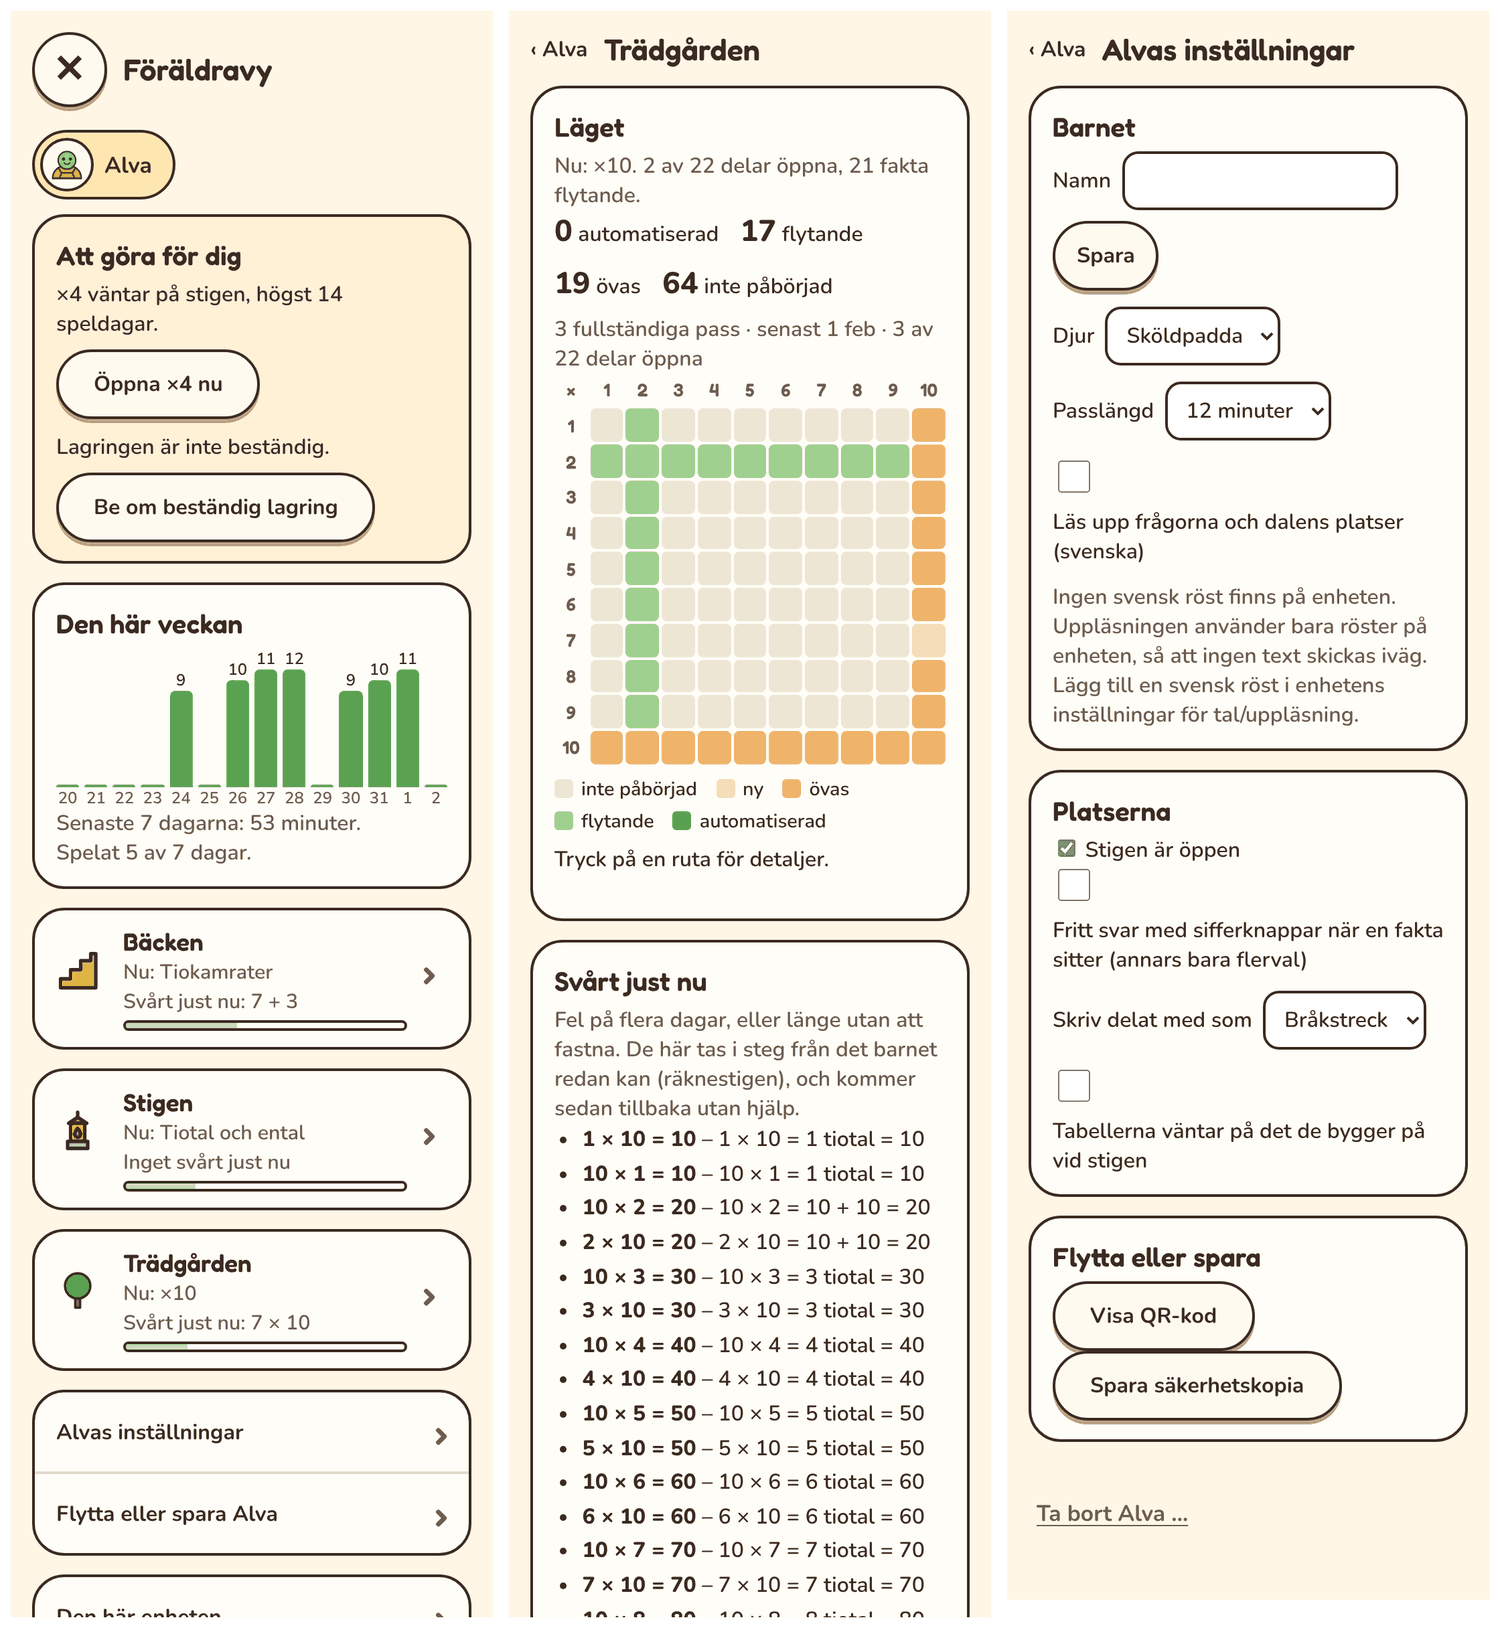
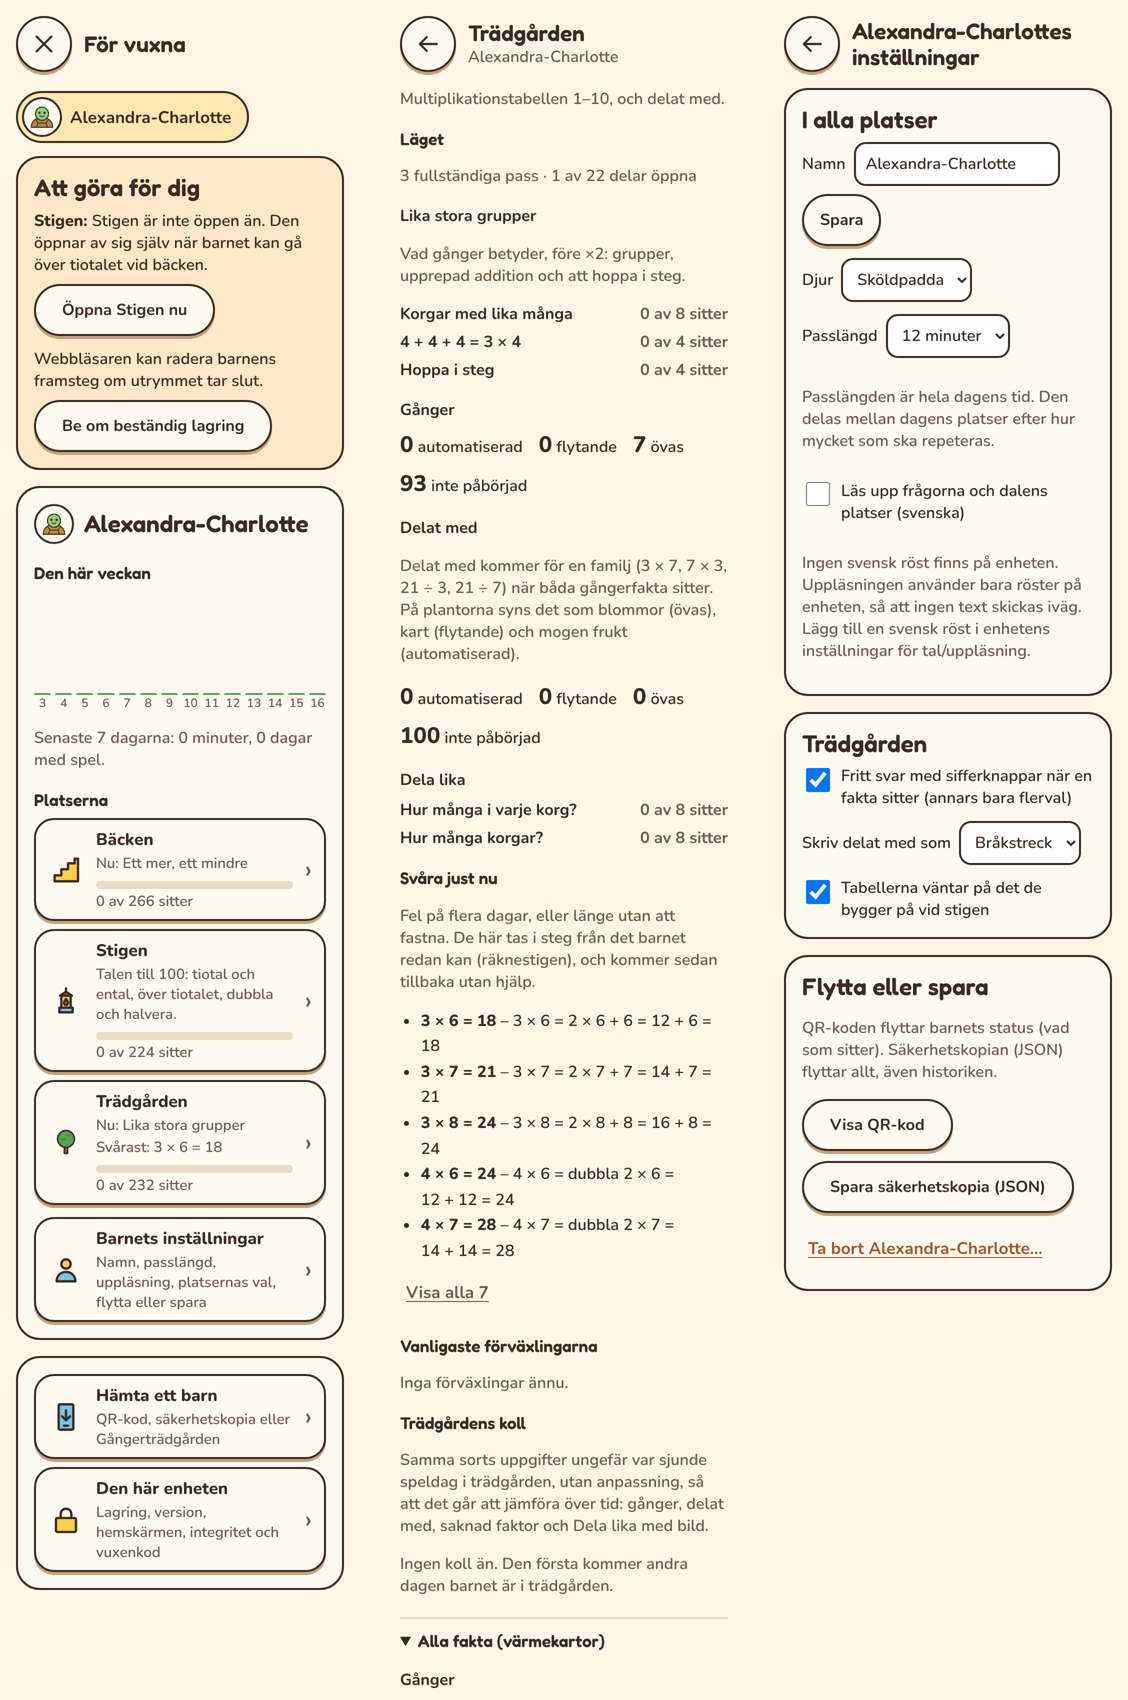
F3: För vuxna verifierad i alla storlekar
- Skärmbilder av alla sju sidor i fem storlekar. Ingen sida rullar i
  sidled; ett test går igenom alla sidor på 320 och 360 px, med
  värmekartorna öppna.
- En dator visar översikten i två spalter: Att göra och enheten till
  vänster, barnet med veckan och platserna till höger.
- PLAN-FORALDRAVYN med skärmbilder från appen och fynden från F3.
  Föräldravyn (F) är klar i färdplanen, och S2 är nästa.

Claude-Session: https://claude.ai/code/session_01NsFq2fAnJdt6rfqAWR7PjB

Changed region(s): [[0.0, 0.0, 1.0, 1.0]]

diff --git a/e2e/narrow.spec.ts b/e2e/narrow.spec.ts
@@ -1,5 +1,5 @@
 import { expect, test, type Page } from '@playwright/test';
-import { createProfile, openParent, parentBack, parentPlace, parentSettings, switchPlayer } from './helpers';
+import { createProfile, openParent, parentBack, parentLink, parentPlace, parentSettings, switchPlayer } from './helpers';
 
 /** Small phones: nothing may stick out of its container or make the page scroll sideways. */
 for (const width of [320, 360]) {
@@ -55,14 +55,22 @@ for (const width of [320, 360]) {
       await switchPlayer(page);
       await openParent(page);
       await expectNoSidewaysScroll(page);
-      // Every page: a place with its heat maps open, and the child's settings.
-      await parentPlace(page, 'Trädgården');
-      await expect(page.locator('#place-garden-heading')).toBeVisible();
-      await page.getByText('Alla fakta (värmekartor)').click();
-      await expectNoSidewaysScroll(page);
-      await parentBack(page);
+      // Every page: each place with its heat maps open, the child's settings, the device and bringing a child in.
+      for (const place of ['Bäcken', 'Stigen', 'Trädgården'] as const) {
+        await parentPlace(page, place);
+        const all = page.getByText(/^Alla fakta/);
+        if (await all.count()) await all.click();
+        await expectNoSidewaysScroll(page);
+        await parentBack(page);
+      }
       await parentSettings(page);
       await expectNoSidewaysScroll(page);
+      await parentBack(page);
+      for (const title of ['Den här enheten', 'Hämta ett barn'] as const) {
+        await parentLink(page, title);
+        await expectNoSidewaysScroll(page);
+        await parentBack(page);
+      }
     });
 
     test('a focus session fits the table label and the drops', async ({ page }) => {

diff --git a/src/shell/styles.css b/src/shell/styles.css
@@ -2917,6 +2917,33 @@ h1:focus {
   margin-top: 4px;
 }
 
+/* A computer: two columns, what waits for a grown-up and the device on the left, the child on the right. */
+@media (min-width: 1000px) {
+  .parent-overview {
+    display: grid;
+    grid-template-columns: minmax(0, 1fr) minmax(0, 1.4fr);
+    align-items: start;
+    gap: 16px 20px;
+    max-width: 1160px;
+  }
+
+  .parent-overview > .top-bar,
+  .parent-overview > .parent-tabs,
+  .parent-overview > p {
+    grid-column: 1 / -1;
+  }
+
+  .parent-overview > .parent-todo,
+  .parent-overview > nav.parent-section {
+    grid-column: 1;
+  }
+
+  .parent-overview > section[aria-labelledby='child-heading'] {
+    grid-column: 2;
+    grid-row: 3 / span 3;
+  }
+}
+
 /* All facts as heat maps, folded so the page stays short. */
 .all-facts {
   margin-top: 20px;

diff --git a/docs/FARDPLAN.md b/docs/FARDPLAN.md
@@ -17,12 +17,11 @@ uppdateras i samma ändring som en fas blir klar.
 
 | # | Fas | Varför nu | Plan | Läge |
 |---|---|---|---|---|
-| 1 | **F. Föräldravyn** (F1–F3) | Föräldravyn är en enda lång sida. Piloten behöver en vy som vuxna hittar i. | [PLAN-FORALDRAVYN](PLAN-FORALDRAVYN.md) | F1–F2 klara, F3 nästa |
-| 2 | **S2. Tid och långsamma barn** | Ett barn som svarar rätt men långsamt fastnar vid grodden. Måste avgöras före piloten. | [PLAN-GRANSKNING](PLAN-GRANSKNING.md#föreslagna-faser) | Simulering först |
-| 3 | **S3. Räknestig efter det barnet kan** | Räknestigen är fast per fakta. | [PLAN-GRANSKNING](PLAN-GRANSKNING.md#föreslagna-faser) | |
-| 4 | **R4. Tvåsiffrigt minus tvåsiffrigt** | 75 − 23 saknas på Stigen. | Plan skrivs | |
-| 5 | **R5 och S4. Inför piloten** | Loggexport som den vuxna väljer att skicka, frågor till barnen, appens syfte och avstämning mot Lgr22. | [PLAN-GRANSKNING](PLAN-GRANSKNING.md#faser) | |
-| 6 | **Pilot med 6–10 barn** | Prövar progressionen, växterna, kartan och föräldravyn. | Plan skrivs | |
+| 1 | **S2. Tid och långsamma barn** | Ett barn som svarar rätt men långsamt fastnar vid grodden. Måste avgöras före piloten. | [PLAN-GRANSKNING](PLAN-GRANSKNING.md#föreslagna-faser) | Nästa, simulering först |
+| 2 | **S3. Räknestig efter det barnet kan** | Räknestigen är fast per fakta. | [PLAN-GRANSKNING](PLAN-GRANSKNING.md#föreslagna-faser) | |
+| 3 | **R4. Tvåsiffrigt minus tvåsiffrigt** | 75 − 23 saknas på Stigen. | Plan skrivs | |
+| 4 | **R5 och S4. Inför piloten** | Loggexport som den vuxna väljer att skicka, frågor till barnen, appens syfte och avstämning mot Lgr22. | [PLAN-GRANSKNING](PLAN-GRANSKNING.md#faser) | |
+| 5 | **Pilot med 6–10 barn** | Prövar progressionen, växterna, kartan och föräldravyn. | Plan skrivs | |
 
 ## Efter piloten
 
@@ -61,3 +60,4 @@ i, med ”I dag” i hörnet i stället för en stor knapp (se
 | – | Siffertangenterna skriver svaret vid flerval. | [TRADGARDEN](TRADGARDEN.md) |
 | S1 | Växterna tar ett steg i taget. Svar med stöd räknas för sig i föräldravyn. | [PLAN-GRANSKNING](PLAN-GRANSKNING.md#fynd-från-s1) |
 | R3 (K1–K3) | Dalen som en karta att dra runt i, med platserna i full storlek och ”I dag” i hörnet. | [PLAN-DALEN](PLAN-DALEN.md) |
+| F (F1–F3) | För vuxna: en kort översikt med Att göra och en rad per plats, och egna sidor för platserna, barnets inställningar, enheten och att hämta ett barn. | [PLAN-FORALDRAVYN](PLAN-FORALDRAVYN.md) |

diff --git a/docs/PLAN-FORALDRAVYN.md b/docs/PLAN-FORALDRAVYN.md
@@ -20,13 +20,13 @@ ställe, och det som gäller enheten får en egen sida.
 
 ## Skiss
 
-Skissen är en attrapp av föräldravyns egna delar.
+Bilderna är skärmbilder från appen.
 
 ![Telefon: översikten, en plats och barnets inställningar](img/foraldravy-telefon.png)
 
 *Telefon, 360 px. Till vänster översikten: det som väntar på en vuxen, veckan och
-en rad per plats. I mitten en plats: läget först, sedan det som är svårt och
-kollen. Till höger barnets inställningar på ett ställe.*
+en rad per plats. I mitten Trädgårdens sida: läget först, sedan det som är svårt
+och kollen. Till höger barnets inställningar på ett ställe.*
 
 ![Dator: översikten i två spalter](img/foraldravy-dator.png)
 
@@ -88,7 +88,7 @@ kollen. Till höger barnets inställningar på ett ställe.*
 |---|---|
 | F1. Översikten och sidorna **(klar)** | Översikten, sidorna för plats, inställningar, enheten och hämta, bakåtknappen och delningen av `parentSection`. |
 | F2. Att göra och raderna **(klar)** | Listan över det som väntar på en vuxen, raderna per plats och ”Svårt just nu” med ”Visa alla”. |
-| F3. Verifiering | Skärmbilder i alla storlekar, testerna, dokumenten. |
+| F3. Verifiering **(klar)** | Skärmbilder i alla storlekar, testerna, dokumenten. |
 
 ## Fynd från F1
 
@@ -121,6 +121,18 @@ kollen. Till höger barnets inställningar på ett ställe.*
   sida.
 - **Svårt just nu** visar högst fem, de lättaste först, och ”Visa alla 7” för
   resten.
+
+## Fynd från F3
+
+- **Ingen sida rullar i sidled,** i någon storlek från 320 px till dator. Ett
+  test går igenom alla sju sidor på 320 och 360 px, med värmekartorna öppna.
+- **Översikten är cirka 1 600 px lång** på en telefon på 360 px, med ”Att göra”.
+  Förut var föräldravyn nästan 10 000 px.
+- **En dator** visar översikten i två spalter: ”Att göra” och enheten till
+  vänster, barnet med veckan och platserna till höger. Allt får plats utan att
+  rulla.
+- **Trädgårdens sida** är den längsta, cirka 2 800 px på en telefon med
+  värmekartorna öppna. Utan dem är den hälften så lång.
 
 Loggexporten i R5 läggs i den nya strukturen, under barnets ”Flytta eller
 spara”.
